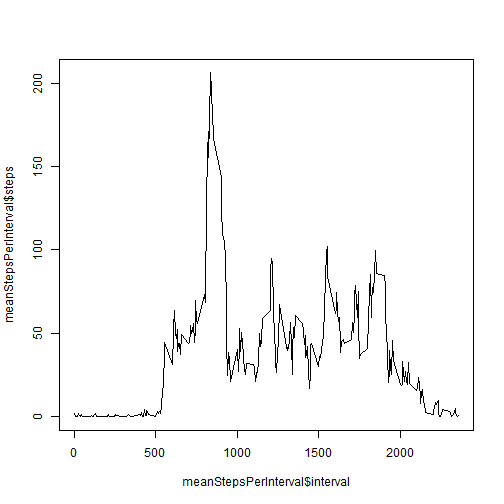
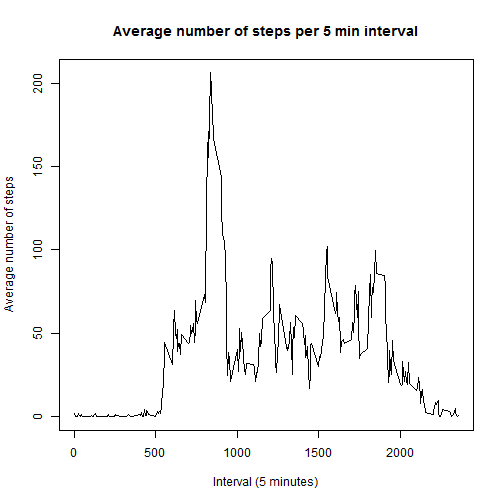
added label for plot axises

Changed region(s): [[0.2083, 0.0298, 0.8333, 0.0893], [0.3571, 0.9226, 0.7143, 0.9821], [0.0, 0.3274, 0.0298, 0.6548]]

diff --git a/PA1_template.html b/PA1_template.html
@@ -256,10 +256,12 @@ hljs.initHighlightingOnLoad();
 <li>Draw a time serie graph with interval on x-axis and the average of number of steps per interval on y-axis</li>
 </ul>
 
-<pre><code class="r">plot(meanStepsPerInterval$interval, meanStepsPerInterval$steps, type = &quot;l&quot;)
+<pre><code class="r">plot(meanStepsPerInterval$interval, meanStepsPerInterval$steps, type = &quot;l&quot;, 
+    main = &quot;Average number of steps per 5 min interval&quot;, xlab = &quot;Interval (5 minutes)&quot;, 
+    ylab = &quot;Average number of steps&quot;)
 </code></pre>
 
[2 lines of base64/hex data omitted]
 
 <ul>
 <li>Find the 5-minute interval which contains the maximum average number of steps</li>

diff --git a/PA1_template.md b/PA1_template.md
@@ -76,7 +76,9 @@ meanStepsPerInterval <- aggregate(steps ~ interval, data = activity, FUN = mean,
 * Draw a time serie graph with interval on x-axis and the average of number of steps per interval on y-axis
 
 ```r
-plot(meanStepsPerInterval$interval, meanStepsPerInterval$steps, type = "l")
+plot(meanStepsPerInterval$interval, meanStepsPerInterval$steps, type = "l", 
+    main = "Average number of steps per 5 min interval", xlab = "Interval (5 minutes)", 
+    ylab = "Average number of steps")
 ```
 
 ![plot of chunk unnamed-chunk-8](figure/unnamed-chunk-8.png) 
